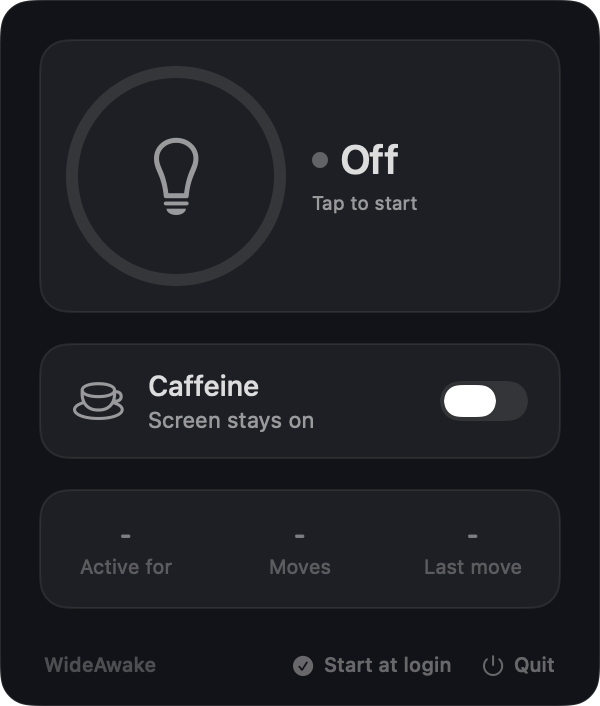
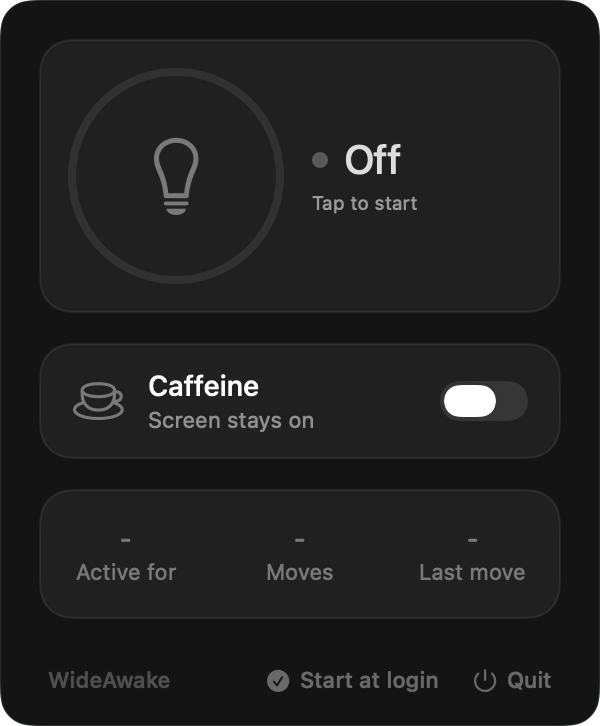
Polish the popup: one amber accent
Drop the glow, gradient ring and blue and green accents for a single amber
accent. Spacing on the 4px grid, two text weights, muted colors instead of
opacity on text, and the name written as WideAwake.

diff --git a/main.swift b/main.swift
@@ -146,10 +146,12 @@ final class Model: ObservableObject {
 
 // MARK: - Views
 
-private let panelColor = Color(red: 0.07, green: 0.075, blue: 0.095)
+private let panelColor = Color(red: 0.08, green: 0.08, blue: 0.08)
+// The single accent: a warm lamp amber for the bulb, countdown ring and Caffeine switch.
+private let amber = Color(red: 0.91, green: 0.64, blue: 0.24)
 
 private extension View {
-    func card(radius: CGFloat = 14) -> some View {
+    func card(radius: CGFloat = 16) -> some View {
         background(RoundedRectangle(cornerRadius: radius).fill(Color.white.opacity(0.05)))
             .overlay(RoundedRectangle(cornerRadius: radius).stroke(Color.white.opacity(0.08), lineWidth: 1))
     }
@@ -188,7 +190,7 @@ struct PopoverView: View {
         }
         .padding(.horizontal, 20)
         .padding(.top, 20)
-        .padding(.bottom, 14)
+        .padding(.bottom, 16)
         .environment(\.colorScheme, .dark)
     }
 
@@ -200,18 +202,14 @@ struct PopoverView: View {
                 model.toggle()
             } label: {
                 ZStack {
-                    Circle()
-                        .fill(RadialGradient(colors: [.yellow.opacity(model.isActive ? 0.35 : 0), .clear],
-                                             center: .center, startRadius: 4, endRadius: 60))
-                    Circle().stroke(Color.white.opacity(0.10), lineWidth: 6)
+                    Circle().stroke(Color.white.opacity(0.08), lineWidth: 4)
                     Circle()
                         .trim(from: 0, to: progress)
-                        .stroke(AngularGradient(colors: [.yellow, .orange], center: .center),
-                                style: StrokeStyle(lineWidth: 6, lineCap: .round))
+                        .stroke(amber, style: StrokeStyle(lineWidth: 4, lineCap: .round))
                         .rotationEffect(.degrees(-90))
                     Image(systemName: model.isActive ? "lightbulb.fill" : "lightbulb")
                         .font(.system(size: 34))
-                        .foregroundStyle(model.isActive ? Color.yellow : Color.white.opacity(0.55))
+                        .foregroundStyle(model.isActive ? amber : Color.white.opacity(0.4))
                         .symbolEffect(.pulse, isActive: model.isActive)
                 }
                 .frame(width: 104, height: 104)
@@ -222,9 +220,9 @@ struct PopoverView: View {
             .help(model.isActive ? "Click to turn off" : "Click to turn on")
 
             VStack(alignment: .leading, spacing: 4) {
-                HStack(spacing: 6) {
-                    Circle().fill(model.isActive ? Color.green : Color.white.opacity(0.3)).frame(width: 8, height: 8)
-                    Text(model.isActive ? "Active" : "Off").font(.system(size: 20, weight: .semibold)).lineLimit(1)
+                HStack(spacing: 8) {
+                    Circle().fill(model.isActive ? amber : Color.white.opacity(0.25)).frame(width: 8, height: 8)
+                    Text(model.isActive ? "Active" : "Off").font(.system(size: 20, weight: .medium)).lineLimit(1)
                 }
                 // The permission prompt lives in this line (not a separate banner) so the card never changes height.
                 if !trusted {
@@ -233,8 +231,8 @@ struct PopoverView: View {
                     }
                     .buttonStyle(.plain)
                     .help("Privacy & Security > Device Control and Data Access (called Accessibility on older macOS)")
-                    .font(.system(size: 12, weight: .semibold))
-                    .foregroundStyle(.orange)
+                    .font(.system(size: 12, weight: .medium))
+                    .foregroundStyle(amber)
                     .lineLimit(1)
                     .minimumScaleFactor(0.8)
                 } else {
@@ -257,17 +255,16 @@ struct PopoverView: View {
     /// Separate keep-awake switch: no mouse movement, so the screensaver still runs when you are away.
     private var caffeine: some View {
         let covered = model.isActive  // Wide Awake already holds system and display sleep
-        let blue = Color(red: 0.23, green: 0.61, blue: 0.96)
         return HStack(spacing: 12) {
             Image(systemName: "cup.and.saucer")
                 .font(.system(size: 20))
-                .foregroundStyle(model.caffeineOn ? blue : Color.white.opacity(0.55))
+                .foregroundStyle(model.caffeineOn && !covered ? amber : Color.white.opacity(0.4))
                 .frame(width: 26)
             VStack(alignment: .leading, spacing: 2) {
-                Text("Caffeine").font(.system(size: 14, weight: .medium)).lineLimit(1)
-                Text(covered ? "Covered by Wide Awake" : "Screen stays on")
+                Text("Caffeine").font(.system(size: 14, weight: .medium)).foregroundStyle(covered ? Color.white.opacity(0.5) : Color.white).lineLimit(1)
+                Text(covered ? "Covered by WideAwake" : "Screen stays on")
                     .font(.system(size: 11))
-                    .foregroundStyle(.secondary)
+                    .foregroundStyle(Color.white.opacity(covered ? 0.4 : 0.5))
                     .lineLimit(1)
                     .minimumScaleFactor(0.8)
             }
@@ -276,48 +273,48 @@ struct PopoverView: View {
                 .labelsHidden()
                 .toggleStyle(.switch)
                 .controlSize(.small)
-                .tint(blue)
+                .tint(amber)
+                .opacity(covered ? 0.5 : 1)
         }
         .padding(.horizontal, 16)
         .padding(.vertical, 12)
         .frame(width: 260)
         .card()
-        .opacity(covered ? 0.55 : 1)
         .help("Keeps your Mac and screen awake without moving the mouse")
     }
 
     private func stats(now: Date) -> some View {
         HStack(spacing: 0) {
-            stat("Active for", model.startedAt.map { format(now.timeIntervalSince($0)) } ?? "-")
-            stat("Moves", model.isActive ? "\(model.moveCount)" : "-")
-            stat("Last move", model.lastMove.map { ago(now.timeIntervalSince($0)) } ?? "-")
+            stat("Active for", model.startedAt.map { format(now.timeIntervalSince($0)) } ?? "-", on: model.isActive)
+            stat("Moves", model.isActive ? "\(model.moveCount)" : "-", on: model.isActive)
+            stat("Last move", model.lastMove.map { ago(now.timeIntervalSince($0)) } ?? "-", on: model.isActive)
         }
-        .opacity(model.isActive ? 1 : 0.5)
-        .padding(.vertical, 14)
+        .padding(.vertical, 16)
         .frame(width: 260)
         .card()
     }
 
-    private func stat(_ title: String, _ value: String) -> some View {
+    private func stat(_ title: String, _ value: String, on: Bool) -> some View {
         VStack(spacing: 2) {
             Text(value)
-                .font(.system(size: 13, weight: .semibold, design: .rounded))
+                .font(.system(size: 13, weight: .medium, design: .rounded))
+                .foregroundStyle(on ? Color.white : Color.white.opacity(0.4))
                 .monospacedDigit()
                 .lineLimit(1).minimumScaleFactor(0.7)
-            Text(title).font(.system(size: 10)).foregroundStyle(.secondary).lineLimit(1)
+            Text(title).font(.system(size: 11)).foregroundStyle(Color.white.opacity(on ? 0.5 : 0.4)).lineLimit(1)
         }
         .frame(maxWidth: .infinity)
     }
 
     private var footer: some View {
         let muted = Color.white.opacity(0.36)
-        return VStack(spacing: 6) {
+        return VStack(spacing: 8) {
             if let error = model.loginError {
-                Text(error).font(.system(size: 10)).foregroundStyle(.red).frame(maxWidth: .infinity, alignment: .leading)
+                Text(error).font(.system(size: 11)).foregroundStyle(.red).frame(maxWidth: .infinity, alignment: .leading)
             }
-            HStack(spacing: 14) {
+            HStack(spacing: 16) {
                 Text("WideAwake")
-                    .font(.system(size: 10, weight: .medium))
+                    .font(.system(size: 11, weight: .medium))
                     .foregroundStyle(muted.opacity(0.7))
                     .fixedSize()
                 Spacer(minLength: 0)
@@ -335,12 +332,12 @@ struct PopoverView: View {
                 }
             }
             .buttonStyle(.plain)
-            .font(.system(size: 10, weight: .medium))
+            .font(.system(size: 11, weight: .medium))
             .foregroundStyle(muted)
             .fixedSize(horizontal: false, vertical: true)
         }
-        .padding(.horizontal, 2)
-        .padding(.top, 6)
+        .padding(.horizontal, 4)
+        .padding(.top, 8)
     }
 
     /// Short relative time ("12s ago") so the stats columns stay evenly spaced.
